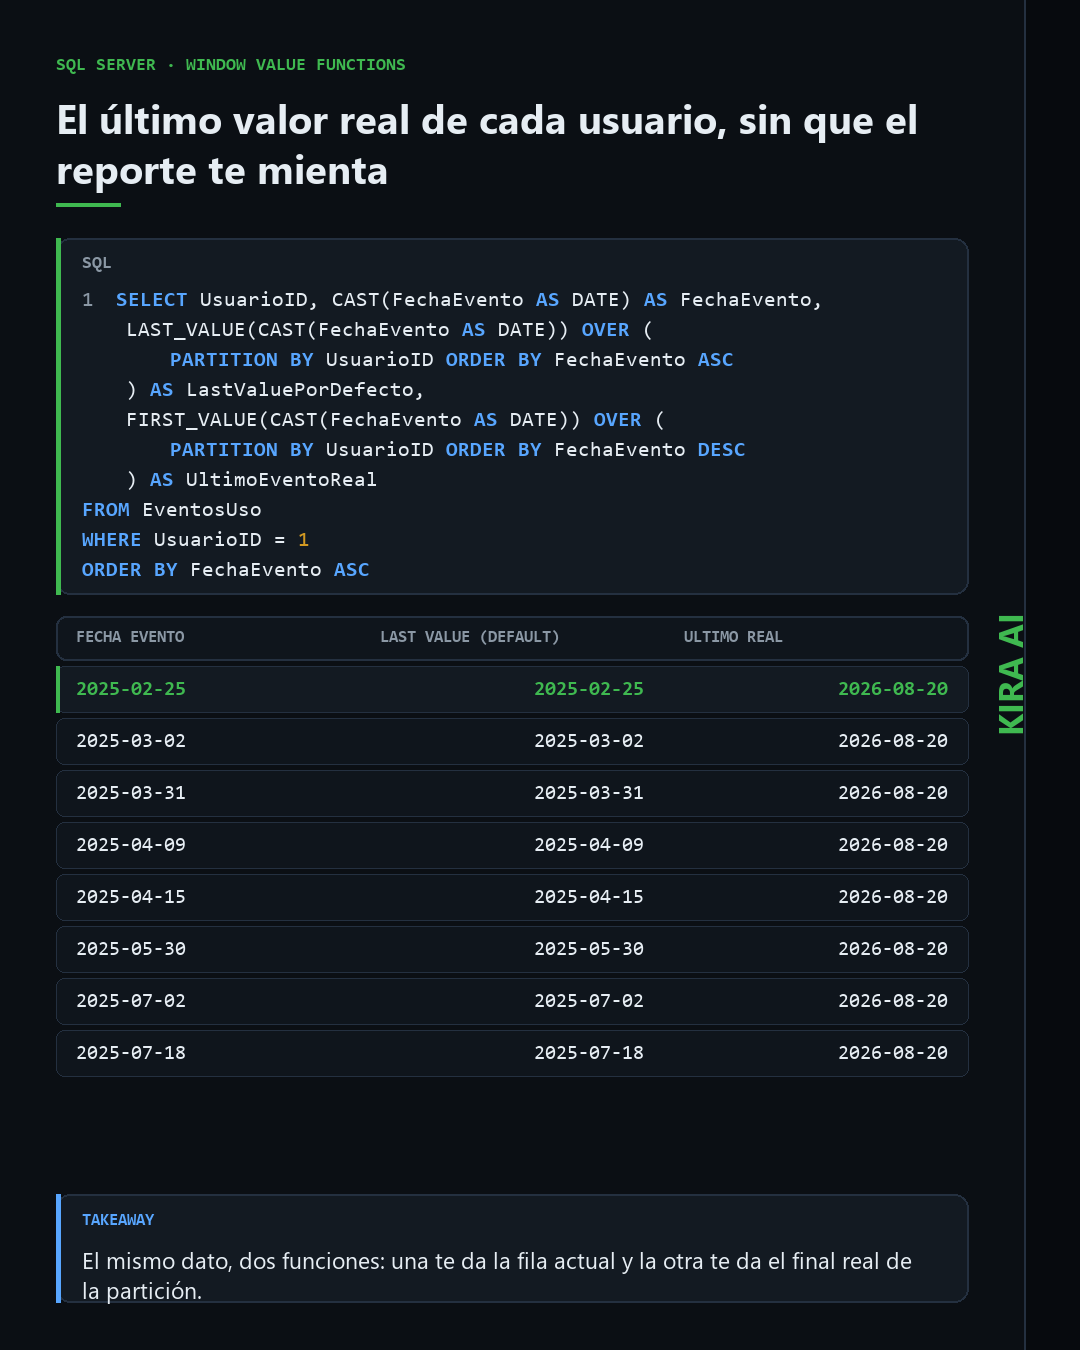
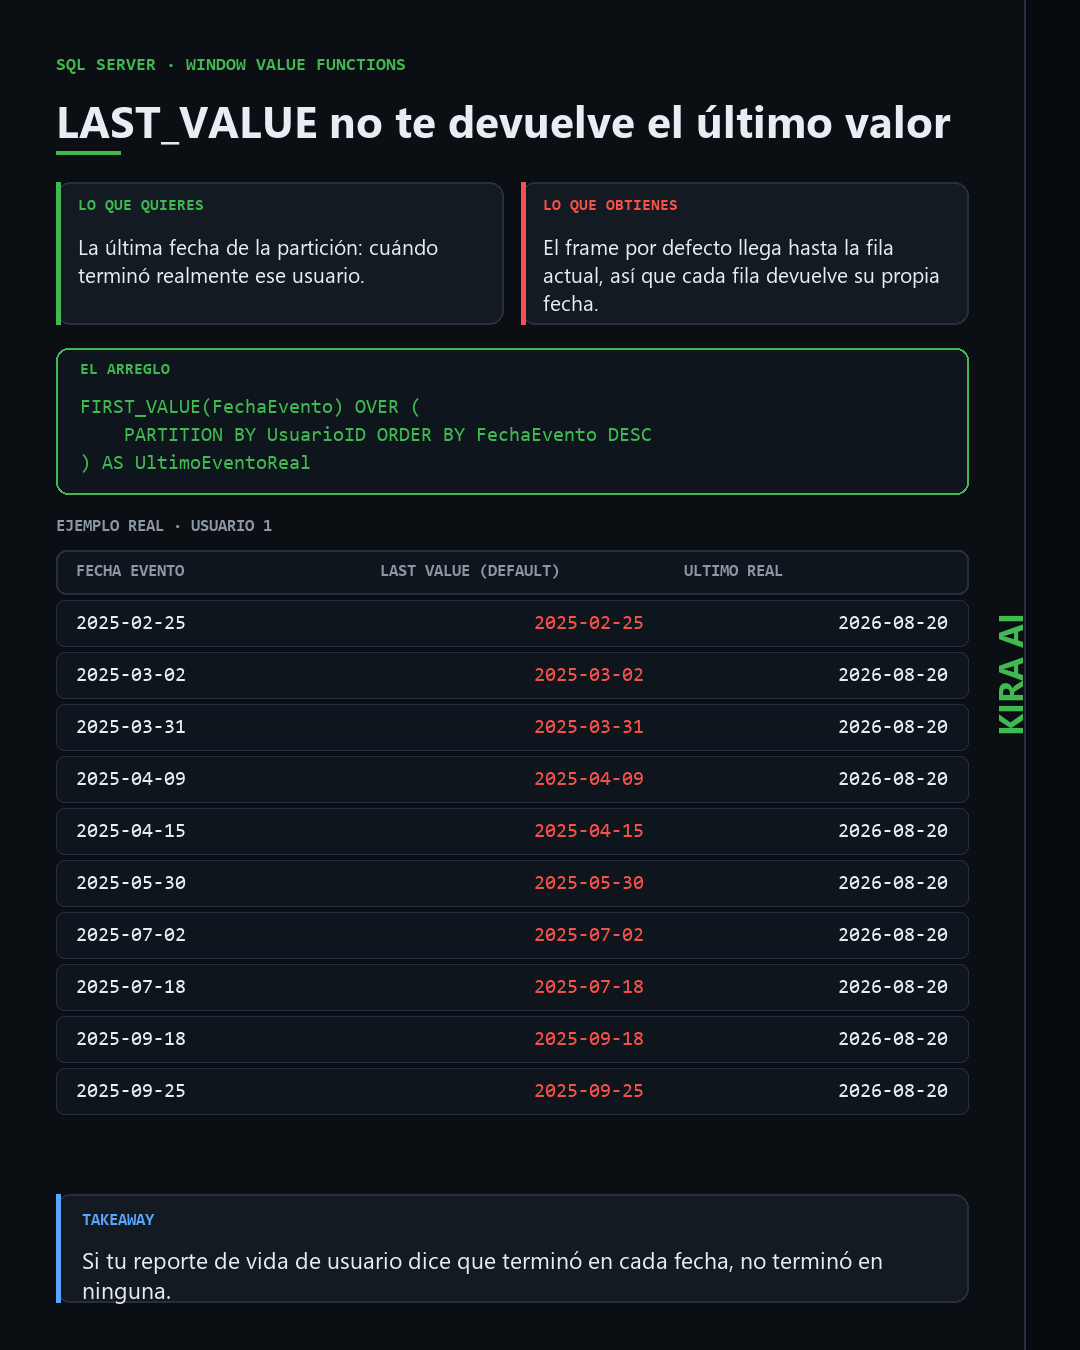
feat: add concept layout for post images and rebuild Sección 15 visual

Changed region(s): [[0.0306, 0.0622, 0.8861, 0.8089], [0.0611, 0.9333, 0.825, 0.9644], [0.6417, 0.4044, 0.7333, 0.4356]]

diff --git a/scripts/generar-imagen-post.py b/scripts/generar-imagen-post.py
@@ -16,6 +16,7 @@ MUTED = "#8B98A5"
 GREEN = "#3FB950"
 BLUE = "#58A6FF"
 AMBER = "#D29922"
+RED = "#F85149"
 FONT_DIR = r"C:\Windows\Fonts"
 MONO = os.path.join(FONT_DIR, "consola.ttf")
 MONO_B = os.path.join(FONT_DIR, "consolab.ttf")
@@ -101,6 +102,86 @@ def rounded(draw, box, radius, fill, outline=None, width=1):
     draw.rounded_rectangle(box, radius=radius, fill=fill, outline=outline, width=width)
 
 
+def draw_cards(d, cfg, margin, content_w, y):
+    cards = cfg.get("cards", [])
+    if not cards:
+        return y
+    gap = 18
+    cw = (content_w - gap * (len(cards) - 1)) // len(cards)
+    body_f = font(SANS, 21)
+    ch = 0
+    for c in cards:
+        ch = max(ch, 58 + 28 * len(wrap(d, c["text"], body_f, cw - 44)))
+    for i, c in enumerate(cards):
+        x = margin + i * (cw + gap)
+        tone = c.get("tone", "green")
+        accent = {"green": GREEN, "amber": AMBER, "red": RED}.get(tone, GREEN)
+        rounded(d, [x, y, x + cw, y + ch], 14, PANEL, BORDER, 2)
+        d.rectangle([x, y, x + 4, y + ch], fill=accent)
+        d.text((x + 22, y + 16), c["label"].upper(), font=font(MONO_B, 16), fill=accent)
+        for j, line in enumerate(wrap(d, c["text"], body_f, cw - 44)[:4]):
+            d.text((x + 22, y + 50 + j * 28), line, font=body_f, fill=TEXT)
+    return y + ch
+
+
+def draw_fix(d, cfg, margin, content_w, y):
+    fix = cfg.get("fix")
+    if not fix:
+        return y
+    lines = fix["code"]
+    lh = 28
+    h = 50 + lh * len(lines) + 12
+    rounded(d, [margin, y, margin + content_w, y + h], 12, PANEL_ALT, GREEN, 2)
+    d.text((margin + 24, y + 14), fix.get("label", "fix").upper(), font=font(MONO_B, 16), fill=GREEN)
+    f = font(MONO, 20)
+    for i, line in enumerate(lines):
+        d.text((margin + 24, y + 50 + i * lh), line, font=f, fill=GREEN)
+    return y + h
+
+
+def draw_grid(d, cfg, margin, content_w, y, bottom_limit, col_colors=None):
+    cols = cfg["columns"]
+    col_w = content_w // len(cols)
+    rounded(d, [margin, y, margin + content_w, y + 44], 10, PANEL_ALT, BORDER, 2)
+    head_f = font(MONO_B, 17)
+    for i, c in enumerate(cols):
+        d.text((margin + 20 + i * col_w, y + 13), c.upper(), font=head_f, fill=MUTED)
+    y += 50
+    row_h = 46
+    gap = 6
+    max_rows = max(1, int((bottom_limit - 24 - y) // (row_h + gap)))
+    rows = cfg["rows"][:max_rows]
+    num_f = font(MONO, 20)
+    num_b = font(MONO_B, 20)
+    for r_i, row in enumerate(rows):
+        top = cfg.get("highlight_rows", [])
+        bg = PANEL if r_i in top else PANEL_ALT
+        rounded(d, [margin, y, margin + content_w, y + row_h], 8, bg, BORDER, 1)
+        if r_i in top:
+            d.rectangle([margin, y, margin + 3, y + row_h], fill=GREEN)
+        for i, cell in enumerate(row):
+            val = str(cell)
+            f = num_b if r_i in top else num_f
+            color = GREEN if r_i in top else (col_colors or {}).get(str(i), TEXT)
+            w_px = d.textlength(val, font=f)
+            if i == 0:
+                d.text((margin + 20, y + 14), val, font=f, fill=color)
+            else:
+                d.text((margin + 20 + i * col_w + col_w - 40 - w_px, y + 14), val, font=f, fill=color)
+        y += row_h + gap
+    return y
+
+
+def draw_takeaway(d, cfg, margin, content_w, y, take_y, take_h=108):
+    y = max(y + 10, take_y)
+    rounded(d, [margin, y, margin + content_w, y + take_h], 14, PANEL, BORDER, 2)
+    d.rectangle([margin, y, margin + 4, y + take_h], fill=BLUE)
+    d.text((margin + 26, y + 18), "TAKEAWAY", font=font(MONO_B, 17), fill=BLUE)
+    take_f = font(SANS, 23)
+    for i, line in enumerate(wrap(d, cfg["takeaway"], take_f, content_w - 60)[:2]):
+        d.text((margin + 26, y + 50 + i * 30), line, font=take_f, fill=TEXT)
+
+
 def build(cfg):
     img = Image.new("RGB", (W, H), BG)
     d = ImageDraw.Draw(img)
@@ -119,19 +200,35 @@ def build(cfg):
 
     margin = 56
     content_w = W - SIDEBAR - margin * 2
+    take_h = 108
+    take_y = H - 48 - take_h
     y = 56
 
-    label = font(MONO_B, 18)
-    d.text((margin, y), cfg["label"].upper(), font=label, fill=GREEN)
+    d.text((margin, y), cfg["label"].upper(), font=font(MONO_B, 18), fill=GREEN)
     y += 34
 
+    if cfg.get("layout") == "concept":
+        title_f = font(SANS_B, 44)
+        for line in wrap(d, cfg["title"], title_f, content_w)[:2]:
+            d.text((margin, y), line, font=title_f, fill=TEXT)
+            y += 56
+        y += 6
+        d.line([(margin, y), (margin + 64, y)], fill=GREEN, width=4)
+        y += 30
+        y = draw_cards(d, cfg, margin, content_w, y) + 24
+        y = draw_fix(d, cfg, margin, content_w, y) + 24
+        if cfg.get("example_label"):
+            d.text((margin, y), cfg["example_label"].upper(), font=font(MONO_B, 17), fill=MUTED)
+            y += 32
+        y = draw_grid(d, cfg, margin, content_w, y, take_y, cfg.get("col_colors")) + 6
+        draw_takeaway(d, cfg, margin, content_w, y, take_y, take_h)
+        return img
+
     title_f = font(SANS_B, 40)
-    title_lines = wrap(d, cfg["title"], title_f, content_w)
-    for line in title_lines[:3]:
+    for line in wrap(d, cfg["title"], title_f, content_w)[:3]:
         d.text((margin, y), line, font=title_f, fill=TEXT)
         y += 50
     y += 14
-
     d.line([(margin, y), (margin + 64, y)], fill=GREEN, width=4)
     y += 34
 
@@ -143,46 +240,8 @@ def build(cfg):
     draw_query(d, margin + 26, y + 52, content_w - 52, cfg["query"], 11)
     y += q_h + 22
 
-    cols = cfg["columns"]
-    col_w = content_w // len(cols)
-    rounded(d, [margin, y, margin + content_w, y + 44], 10, PANEL_ALT, BORDER, 2)
-    head_f = font(MONO_B, 17)
-    for i, c in enumerate(cols):
-        d.text((margin + 20 + i * col_w, y + 13), c.upper(), font=head_f, fill=MUTED)
-    y += 50
-
-    row_h = 46
-    gap = 6
-    take_h = 108
-    take_y = H - 48 - take_h
-    max_rows = max(1, int((take_y - 24 - y) // (row_h + gap)))
-    rows = cfg["rows"][:max_rows]
-    num_f = font(MONO, 20)
-    num_b = font(MONO_B, 20)
-    for r_i, row in enumerate(rows):
-        top = cfg.get("highlight_rows", [])
-        bg = PANEL if r_i in top else PANEL_ALT
-        rounded(d, [margin, y, margin + content_w, y + row_h], 8, bg, BORDER, 1)
-        if r_i in top:
-            d.rectangle([margin, y, margin + 3, y + row_h], fill=GREEN)
-        for i, cell in enumerate(row):
-            val = str(cell)
-            f = num_b if r_i in top else num_f
-            color = GREEN if r_i in top else TEXT
-            w_px = d.textlength(val, font=f)
-            if i == 0:
-                d.text((margin + 20, y + 14), val, font=f, fill=color)
-            else:
-                d.text((margin + 20 + i * col_w + col_w - 40 - w_px, y + 14), val, font=f, fill=color)
-        y += row_h + gap
-
-    y = max(y + 10, take_y)
-    rounded(d, [margin, y, margin + content_w, y + take_h], 14, PANEL, BORDER, 2)
-    d.rectangle([margin, y, margin + 4, y + take_h], fill=BLUE)
-    d.text((margin + 26, y + 18), "TAKEAWAY", font=font(MONO_B, 17), fill=BLUE)
-    take_f = font(SANS, 23)
-    for i, line in enumerate(wrap(d, cfg["takeaway"], take_f, content_w - 60)[:2]):
-        d.text((margin + 26, y + 50 + i * 30), line, font=take_f, fill=TEXT)
+    y = draw_grid(d, cfg, margin, content_w, y, take_y) + 6
+    draw_takeaway(d, cfg, margin, content_w, y, take_y, take_h)
 
     return img
 
